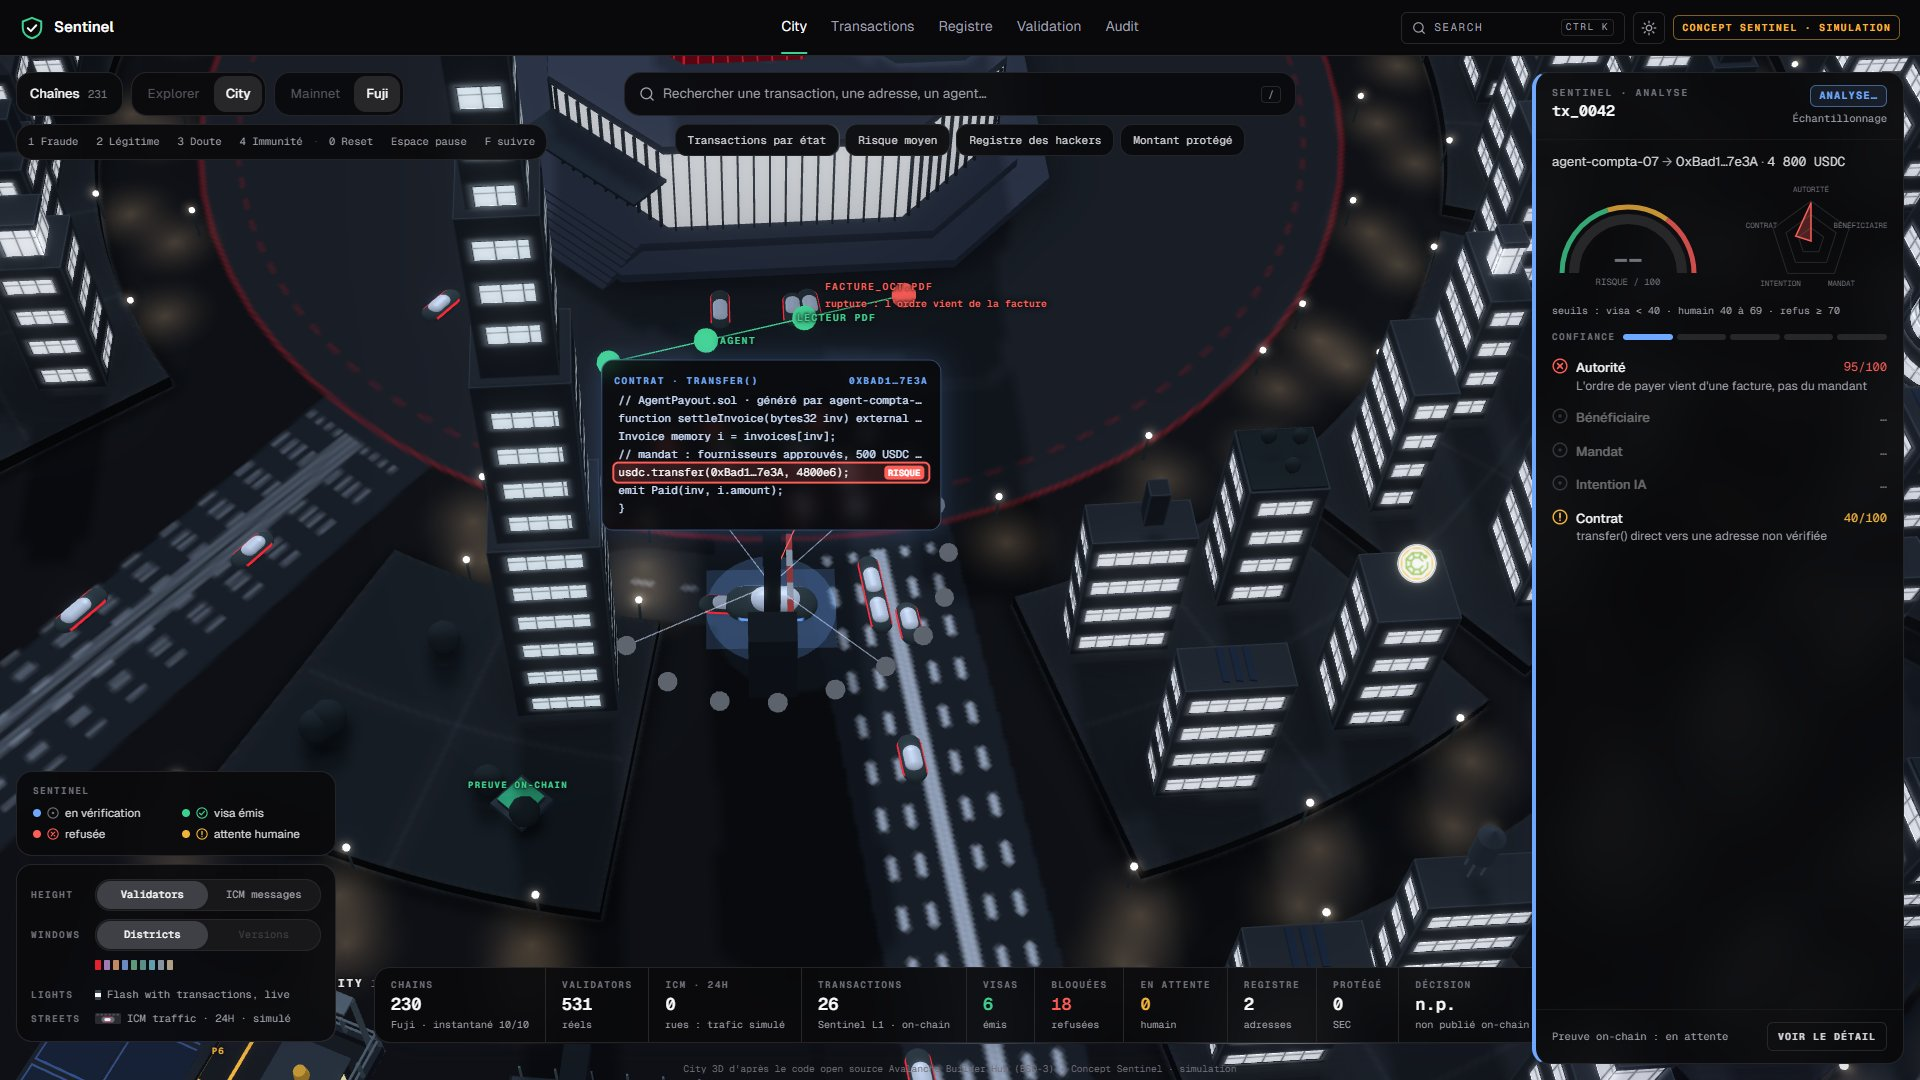
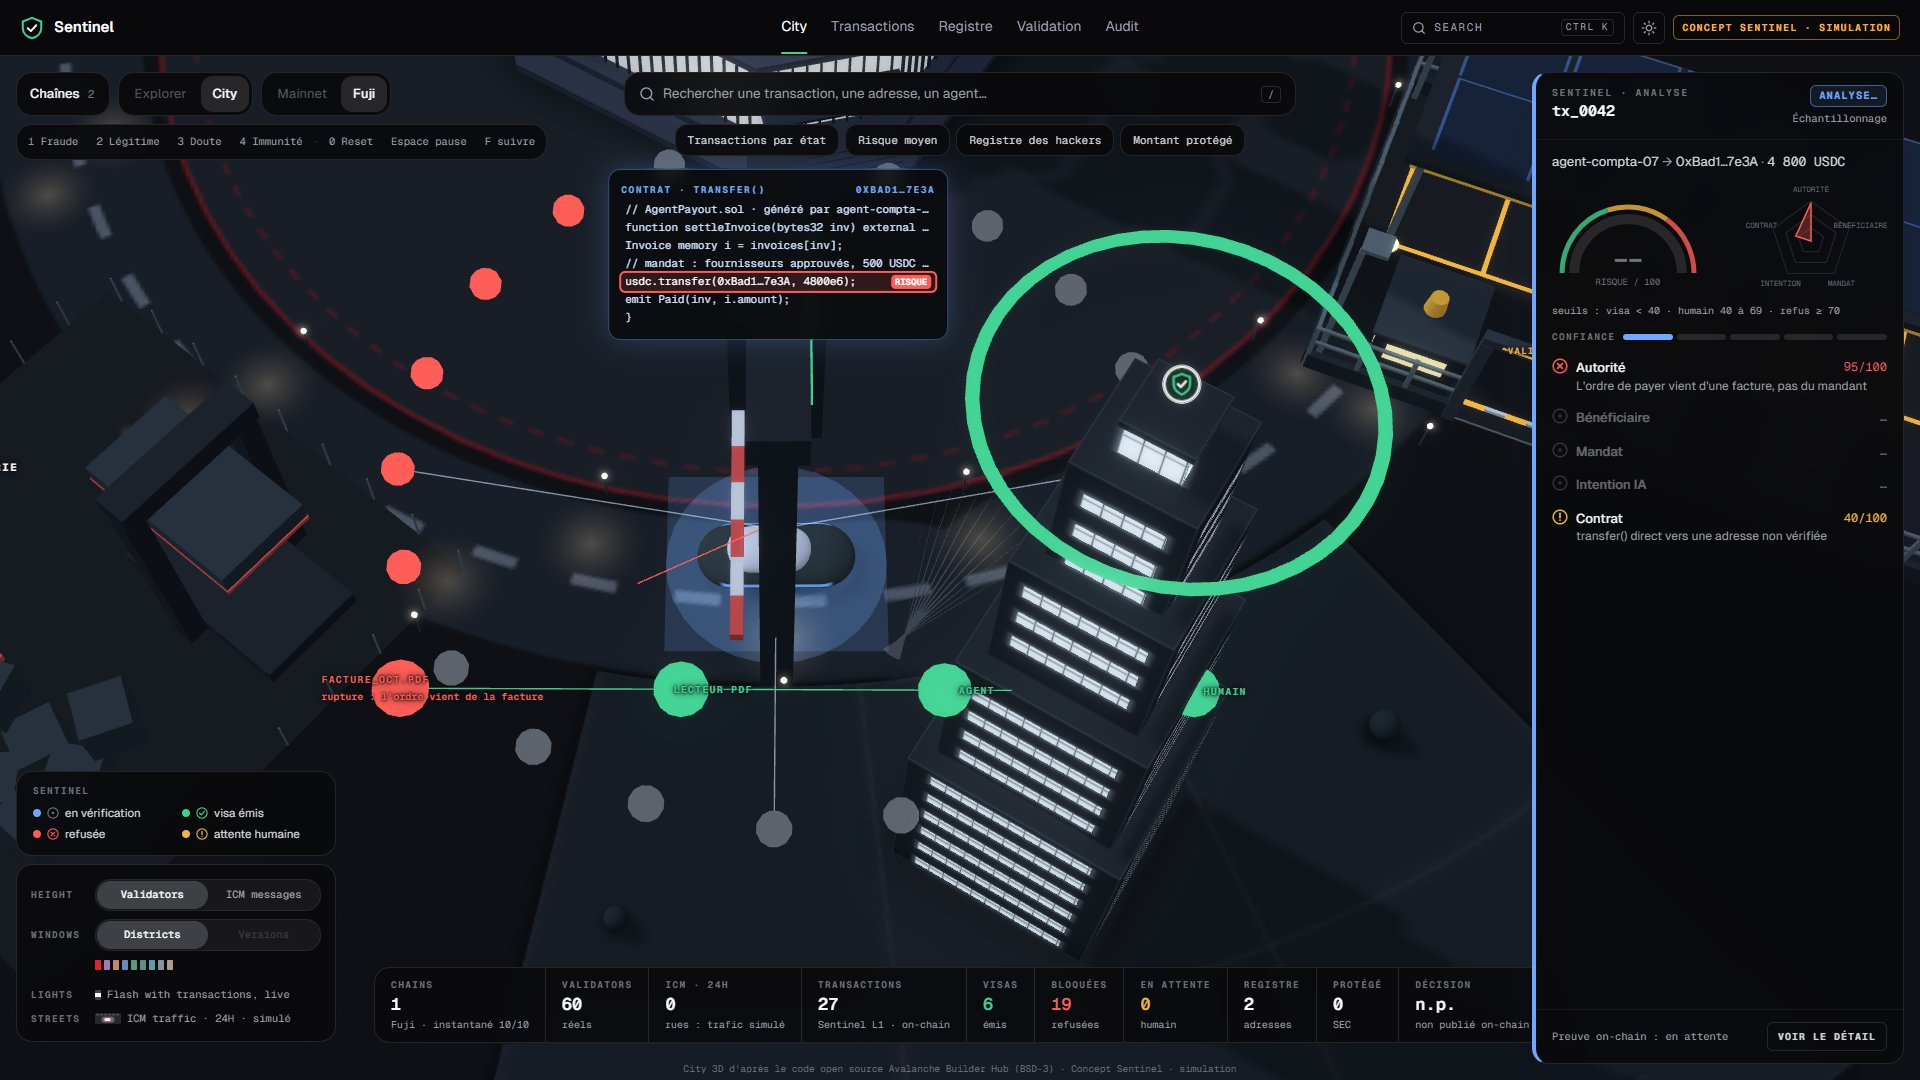
feat(city): Sentinel-only city as deployed: the two towers, one main road, one hero car
- only SentinelL1 and the C-Chain hub stand (NEXT_PUBLIC_CITY_FULL=1 brings every Fuji chain back)
- no ambient fleet; the main road from the HQ through the toll to the hub (Road.tsx, from sentinel-city-3d), its
  centre line green while a visa drives it
- the deployed lower toll camera
- in a ward that holds the whole circle, the car park and the scrapyard stand either side of the HQ's block
- keeps every door, screen, the closed car park, the builders-hub pod car and the live SentinelL1 data

diff --git a/ui3d-city/components/explorer-v2/network/city3d/guardGeo.ts b/ui3d-city/components/explorer-v2/network/city3d/guardGeo.ts
@@ -173,8 +173,11 @@ export function guardGeoOf(model: CityModel, city: City, routes: Route[], street
   const x0 = -depth / 2 - aisle - edge;
   const x1 = depth / 2 + edge;
   const z1 = 3 * bay + edge;
-  const rP = rLat + carL * 0.75 + z1;
-  const aP = lot.a - runSide * ((corridor - x0) / rP);
+  // a ward that holds the whole circle (the Sentinel-only city): the human lot and the scrapyard stand either side of the
+  // HQ's block, at its radius, a service lane between; a narrow ward: beyond the block, a central lane between them
+  const beside = ward.a1 - ward.a0 > Math.PI;
+  const rP = beside ? lot.r : rLat + carL * 0.75 + z1;
+  const aP = beside ? blockMid - runSide * (blockHalf + (2 * corridor - x0) / rP) : lot.a - runSide * ((corridor - x0) / rP);
   const radial = new Vector3(Math.cos(aP), 0, Math.sin(aP));
   const tangent = (a: number) => new Vector3(-Math.sin(a), 0, Math.cos(a));
   // the frame: +x away from the central lane, +z a quarter turn from it (outward or inward, as the side falls)
@@ -213,8 +216,9 @@ export function guardGeoOf(model: CityModel, city: City, routes: Route[], street
   // the scrapyard: fenced, across the central lane from the human lot; its crusher by the lane, the registry's container at its far side
   const sw = S * 1.5;
   const sd = S * 1.6;
-  const rS = rLat + carL * 0.75 + sd / 2;
-  const aS = lot.a + runSide * ((corridor + sw / 2) / rS);
+  const rS = beside ? lot.r : rLat + carL * 0.75 + sd / 2;
+  const aS = beside ? blockMid + runSide * (blockHalf + (2 * corridor + sw / 2) / rS) : lot.a + runSide * ((corridor + sw / 2) / rS);
+  const sideS = blockMid + runSide * (blockHalf + corridor / lot.r);
   const sc = G(rS, aS);
   const scrapyard = {
     c: sc,
@@ -252,16 +256,18 @@ export function guardGeoOf(model: CityModel, city: City, routes: Route[], street
   const door = lp(laneBack, jDoor);
   // round the block by the service road, along the lateral street, down the central lane, in to the crusher
   const lane0 = G(rLat, lot.a);
-  const toScrapyard = pathOf(smooth([door, G(rIn, sideA), G(rLat, sideA), lane0, G(rS - sd * 0.3, lot.a), scrapyard.crusher.clone()]));
+  const toScrapyard = pathOf(
+    smooth(beside ? [door, G(rIn, sideS), G(rS - sd * 0.3, sideS), scrapyard.crusher.clone()] : [door, G(rIn, sideA), G(rLat, sideA), lane0, G(rS - sd * 0.3, lot.a), scrapyard.crusher.clone()]),
+  );
   const slot = slots[2];
   // in by the gate, along the aisle, a turn into P3; out in reverse to the aisle, then forward through the gate to the toll
   const slotZ = (2 - 2.5) * bay;
   const aisleX = -depth / 2 - aisle * 0.5;
   const toParking = pathOf(
-    smooth([stopP, G(rIn, sideA), G(rLat, sideA), lane0, L(x0 - carL * 0.7, gateZ), L(x0 + carW * 0.3, gateZ), L(aisleX, gateZ - inward * bay * 0.25), L(aisleX + aisle * 0.1, slotZ + inward * bay * 0.1), L(-depth / 2 + carW * 0.2, slotZ), slot.clone()]),
+    smooth([stopP, G(rIn, sideA), ...(beside ? [] : [G(rLat, sideA), lane0]), L(x0 - carL * 0.7, gateZ), L(x0 + carW * 0.3, gateZ), L(aisleX, gateZ - inward * bay * 0.25), L(aisleX + aisle * 0.1, slotZ + inward * bay * 0.1), L(-depth / 2 + carW * 0.2, slotZ), slot.clone()]),
   );
   const outOfBay = L(aisleX - aisle * 0.05, slotZ - inward * bay * 0.15);
-  const ahead2 = smooth([outOfBay, L(aisleX, gateZ - inward * bay * 0.2), L(x0 + carW * 0.3, gateZ), L(x0 - carL * 0.6, gateZ), lane0, G(rLat, sideA), G(rIn, sideA), stopP.clone()]);
+  const ahead2 = smooth([outOfBay, L(aisleX, gateZ - inward * bay * 0.2), L(x0 + carW * 0.3, gateZ), L(x0 - carL * 0.6, gateZ), ...(beside ? [] : [lane0, G(rLat, sideA)]), G(rIn, sideA), stopP.clone()]);
   const fromParking = pathOf([slot.clone(), L(-depth / 2 + carW * 0.1, slotZ), ...ahead2], [true, true, ...ahead2.map(() => false)]);
   const hubTop = hubB.base + hubB.crest;
   return {

diff --git a/ui3d-city/components/explorer-v2/network/city3d/AvaGuardRun.tsx b/ui3d-city/components/explorer-v2/network/city3d/AvaGuardRun.tsx
@@ -27,6 +27,8 @@ import { guardGeoOf, poseAt, type GuardGeo } from "./guardGeo";
 import { Crown, ProofStack, RegistryBin, Scrapyard, Toll } from "./Parcel";
 import { HumanLot } from "./HumanLot";
 import { GuardCar } from "./GuardCar";
+import { Road } from "./Road";
+import { SENTINEL_ONLY } from "@/components/explorer-v2/network/avaguard";
 import { CarTip, Door, OPEN, ParkingTip, ProofTip, RegistryTip, ScrapTip, TollTip } from "./Door";
 
 type Props = { model: CityModel; city: City; routes: Route[]; streets: RouteStreets[]; theme: Theme; still: boolean; onShot: (s: Shot | null) => void; cameraRef?: RefObject<CameraHandle | null> };
@@ -47,7 +49,8 @@ function shotsOf(g: GuardGeo): Record<GuardShotName, Shot> {
   };
   return {
     security: { key: "guard:security", points: [new Vector3(g.hq.x, top + 10, g.hq.z), g.toll.p, g.parking.c, g.scrapyard.c, ...ring(new Vector3(g.hq.x, 0, g.hq.z), g.S * 2.6)].map((p) => p.clone()), polar: 0.9, cap: 1 / 3.2, fill: 0.9, az: out(g.toll.p) },
-    toll: { key: "guard:toll", points: [g.toll.p.clone().setY(g.S * 1.9), ...ring(g.toll.p, g.S * 1.2)], polar: 0.62, cap: 1 / 6, fill: 0.8, az: out(g.toll.p) },
+    // SENTINEL (deployed): a lower, closer look at the gantry, the car scanned under it
+    toll: { key: "guard:toll", points: [g.toll.p.clone().setY(g.S * 1.1), ...ring(g.toll.p, g.S * 0.95)], polar: 0.46, cap: 1 / 5.4, fill: 0.92, az: out(g.toll.p) },
     // the lot from the side away from the HQ and from outside the ward, high: the HQ's tower stands behind it, never over its bays
     parking: { key: "guard:parking", points: [g.parking.c.clone().setY(g.carW * 2.4), ...ring(g.parking.c, g.parking.w * 0.55)], polar: 0.55, cap: 1 / 6, fill: 0.84, az: awayFrom(g.parking.c, g.hq) },
     scrapyard: { key: "guard:scrapyard", points: [g.scrapyard.c.clone().setY(g.S * 1.1), ...ring(g.scrapyard.c, g.scrapyard.w * 0.75)], polar: 0.7, cap: 1 / 6, fill: 0.86, az: out(g.scrapyard.c) },
@@ -377,7 +380,8 @@ export function AvaGuardRun({ model, city, routes, streets, theme, still, onShot
       scrapyard: [geo.scrapyard.c.clone().setY(geo.scrapyard.c.y + 0.3), geo.scrapyard.crusher.clone().setY(geo.carW * 0.6)],
       registry: [geo.scrapyard.bin.clone().setY(geo.carW * 0.9)],
       proof: [geo.proof.clone().setY(geo.proof.y + Math.max(1.6, geo.S * 0.12) * 0.45)],
-      hub: [new Vector3(0, geo.hubTop * 0.55, 0)],
+      // high on the red tower: our HQ stands in front of its foot from the home view
+      hub: [0.86, 0.75, 0.55].map((k) => new Vector3(0, geo.hubTop * k, 0)),
       hq: [new Vector3(geo.hq.x, geo.hq.base + geo.hq.crest * 0.5, geo.hq.z), new Vector3(geo.hq.x, geo.hq.base + geo.hq.crest * 0.3, geo.hq.z)],
       // another chain's tower: tall ones on the city's near side (the camera's home looks from +z), none behind downtown
       chain: [...model.buildings]
@@ -424,6 +428,7 @@ export function AvaGuardRun({ model, city, routes, streets, theme, still, onShot
   if (!geo) return null;
   return (
     <group>
+      {SENTINEL_ONLY && <Road geo={geo} theme={theme} />}
       <Crown geo={geo} theme={theme} />
       {/* each piece of the parcel is a door to its screen (Door.tsx, sim/nav.ts) */}
       <Door name="guard:toll" at={[geo.toll.p.x, geo.S * 1.1, geo.toll.p.z]} tip={<TollTip />} onOpen={OPEN.toll}>

diff --git a/ui3d-city/components/explorer-v2/network/city3d/Road.tsx b/ui3d-city/components/explorer-v2/network/city3d/Road.tsx
@@ -1,0 +1,59 @@
+"use client";
+
+// AVAGUARD: the main road, from the deployed sentinel-city-3d (Parcel.tsx Road): a dark asphalt ribbon along the car's
+// way, HQ -> toll -> C-Chain, with a glowing centre line, so the toll clearly straddles one road from spawn to the
+// blockchain. The line turns green while a visa drives it (sim routeLit), as the City's lit lane did.
+import { useMemo } from "react";
+import { MeshBasicMaterial } from "three";
+import { useSim } from "@/sim/store";
+import { AVAGUARD3, type Theme } from "./palette";
+import type { GuardGeo } from "./guardGeo";
+
+export function Road({ geo, theme }: { geo: GuardGeo; theme: Theme }) {
+  const { road, center } = useMemo(() => {
+    const a = geo.legs.approach.pts;
+    const b = geo.legs.toCChain.pts;
+    const pts = [...a, ...b.slice(a.length && b[0].distanceTo(a[a.length - 1]) < 0.5 ? 1 : 0)];
+    // the ribbon just over the ground the car drives on (the block's top inside our block, the street outside)
+    const ribbon = (hw: number, dy: number) => {
+      const pos: number[] = [];
+      const idx: number[] = [];
+      for (let i = 0; i < pts.length; i++) {
+        const pa = pts[Math.max(0, i - 1)];
+        const pb = pts[Math.min(pts.length - 1, i + 1)];
+        const tx = pb.x - pa.x;
+        const tz = pb.z - pa.z;
+        const len = Math.hypot(tx, tz) || 1;
+        const nx = -tz / len;
+        const nz = tx / len;
+        const p = pts[i];
+        pos.push(p.x + nx * hw, p.y + dy, p.z + nz * hw, p.x - nx * hw, p.y + dy, p.z - nz * hw);
+      }
+      for (let i = 0; i < pts.length - 1; i++) {
+        const k = i * 2;
+        idx.push(k, k + 1, k + 2, k + 1, k + 3, k + 2);
+      }
+      return { position: new Float32Array(pos), index: new Uint32Array(idx) };
+    };
+    return { road: ribbon(geo.carW * 1.6, 0.01), center: ribbon(Math.max(0.32, geo.carW * 0.13), 0.04) };
+  }, [geo]);
+  const lit = useSim((s) => s.routeLit);
+  const asphalt = useMemo(() => new MeshBasicMaterial({ color: theme === "dark" ? "#3A424E" : "#C3CEDB", toneMapped: false }), [theme]);
+  const line = useMemo(() => new MeshBasicMaterial({ color: (lit ? AVAGUARD3.allow : AVAGUARD3.verify)[theme], transparent: true, opacity: 0.95, toneMapped: false, depthWrite: false }), [theme, lit]);
+  return (
+    <group>
+      <mesh material={asphalt} renderOrder={-1}>
+        <bufferGeometry>
+          <bufferAttribute attach="attributes-position" args={[road.position, 3]} />
+          <bufferAttribute attach="index" args={[road.index, 1]} />
+        </bufferGeometry>
+      </mesh>
+      <mesh material={line}>
+        <bufferGeometry>
+          <bufferAttribute attach="attributes-position" args={[center.position, 3]} />
+          <bufferAttribute attach="index" args={[center.index, 1]} />
+        </bufferGeometry>
+      </mesh>
+    </group>
+  );
+}

diff --git a/ui3d-city/components/explorer-v2/network/city-data.ts b/ui3d-city/components/explorer-v2/network/city-data.ts
@@ -15,7 +15,7 @@ import { C_CHAIN_ID, MAINNET_COUNTERPART, catalogBySubnet, catalogOf, resolveCat
 import type { PchainNetwork } from "@/lib/pchain-explorer";
 import { PRIMARY_SUBNET_ID } from "@/lib/pchain-node";
 import type { L1Chain } from "@/types/stats";
-import { AVAGUARD_CHAIN, AVAGUARD_FLOW, AVAGUARD_ID, SENTINEL_SUBNET, AVAGUARD_MIN_H, simulatedFlows } from "@/components/explorer-v2/network/avaguard"; // AVAGUARD
+import { AVAGUARD_CHAIN, AVAGUARD_FLOW, AVAGUARD_ID, SENTINEL_ONLY, SENTINEL_SUBNET, AVAGUARD_MIN_H, simulatedFlows } from "@/components/explorer-v2/network/avaguard"; // AVAGUARD
 
 /* The city's data, apart from the map that draws it (icm-map.tsx): the
    feeds, the catalog that names the chains, and the plan of lots and
@@ -204,7 +204,8 @@ export function useCityData({ days, sizeBy, network = "mainnet" }: { days: numbe
     const bySubnet = catalogBySubnet(network);
     // AVAGUARD: our L1 joins the chain feed before the plan, and its street to the C-Chain joins the flows; a network
     // whose feed has no ICM at all (Fuji today) gets plausible flows between the C-Chain and its most validated chains
-    const fed = chains ? [...chains.filter((c) => String(c.chainId) !== AVAGUARD_ID), AVAGUARD_CHAIN] : null;
+    // SENTINEL: in the demo city only the C-Chain hub stands beside our L1, so the main road, the toll and the car read clearly
+    const fed = chains ? [...chains.filter((c) => String(c.chainId) !== AVAGUARD_ID && (!SENTINEL_ONLY || String(c.chainId) === hubId)), AVAGUARD_CHAIN] : null;
     const icmSimulated = !!fed && !flows.some((f) => f.messageCount > 0);
     const allFlows = [
       ...(icmSimulated ? simulatedFlows(fed!, hubId) : flows),
@@ -313,7 +314,10 @@ export function useCityData({ days, sizeBy, network = "mainnet" }: { days: numbe
       });
     }
     // AVAGUARD: SentinelL1's own registry row (a guest on the Frontier) gives way to our HQ, so it stands once
-    const base = [...listed.map((c) => (freshAt.has(c.id) ? { ...c, newAt: freshAt.get(c.id)! } : c)), ...guests.filter((g) => g.subnetId !== SENTINEL_SUBNET && g.blockchainId !== AVAGUARD_ID)];
+    const base = [...listed.map((c) => (freshAt.has(c.id) ? { ...c, newAt: freshAt.get(c.id)! } : c)), ...guests.filter((g) => g.subnetId !== SENTINEL_SUBNET && g.blockchainId !== AVAGUARD_ID)].filter(
+      // SENTINEL: and no other listed chain nor P-Chain guest
+      (c) => !SENTINEL_ONLY || c.id === hubId || c.id === AVAGUARD_ID,
+    );
 
     const metric = (c: (typeof base)[number]) => (byMessages ? c.out + c.in : c.validators);
     const top = Math.max(byMessages ? 1 : H_TOP_MIN, ...base.map(metric));

diff --git a/ui3d-city/components/explorer-v2/network/city3d/City3D.tsx b/ui3d-city/components/explorer-v2/network/city3d/City3D.tsx
@@ -44,7 +44,7 @@ import { PRIVATE_IDS } from "@/components/explorer-v2/network/private";
 // AVAGUARD: our parcel and our one simulated car, in the same scene
 import { AvaGuardRun } from "./AvaGuardRun";
 import { AVAGUARD3 } from "./palette";
-import { guardKey } from "@/components/explorer-v2/network/avaguard";
+import { SENTINEL_ONLY, guardKey } from "@/components/explorer-v2/network/avaguard";
 import { useSim } from "@/sim/store";
 
 /* The city in 3D: the same plan, towers, streets and traffic as the map
@@ -957,7 +957,8 @@ export default function City3D({ data: incoming, network, versions = null, targe
         />
         </Stage>
         <Stage at={4}>
-        <Traffic routes={routes} streets={streets} city={city} inks={traffic.inks} on={traffic.on} blue={traffic.blue} theme={theme} still={still} liveAt={schedule.liveAt} hovered={hoverRoute?.key ?? null} onHoverRoute={onHoverRoute} frozen={flyingRef} picked={pairWays} onPickRoute={onRoute ? pickRoute : undefined} tint={routeLit ? { key: guardKey(hubId), color: AVAGUARD3.allow[theme] } : null} />
+        {/* SENTINEL: no ambient fleet in the demo city, its one hero car plays on the main road (AvaGuardRun, Road) */}
+        {!SENTINEL_ONLY && <Traffic routes={routes} streets={streets} city={city} inks={traffic.inks} on={traffic.on} blue={traffic.blue} theme={theme} still={still} liveAt={schedule.liveAt} hovered={hoverRoute?.key ?? null} onHoverRoute={onHoverRoute} frozen={flyingRef} picked={pairWays} onPickRoute={onRoute ? pickRoute : undefined} tint={routeLit ? { key: guardKey(hubId), color: AVAGUARD3.allow[theme] } : null} />}
         <Marks model={model} city={city} hover={state.hover} pick={state.pick} focus={focus} theme={theme} still={still} />
         {/* AVAGUARD: our parcel (toll, human lot, scrapyard, proofs) and the protected payment playing on it */}
         {model.buildings.length > 0 && <AvaGuardRun model={model} city={city} routes={routes} streets={streets} theme={theme} still={still} onShot={setGuardShot} cameraRef={cameraRef} />}

diff --git a/ui3d-city/components/explorer-v2/network/avaguard.ts b/ui3d-city/components/explorer-v2/network/avaguard.ts
@@ -8,6 +8,9 @@ export const AVAGUARD_ID = process.env.NEXT_PUBLIC_AVAGUARD_CHAIN_ID || "2PqooUD
 export const SENTINEL_SUBNET = "jUCDvuYEuP16TFpxjanBQt6JiedTDUBanrYTBjThmdmfw8PxH";
 export const SENTINEL_EVM_CHAIN_ID = 99999;
 export const AVAGUARD_NAME = "Sentinel L1";
+/** SENTINEL (the deployed sentinel-city-3d): the demo city is only our L1 and the C-Chain hub it reports to, one main
+    road between them and one hero car, no ambient fleet. NEXT_PUBLIC_CITY_FULL=1 stands every Fuji chain again. */
+export const SENTINEL_ONLY = process.env.NEXT_PUBLIC_CITY_FULL !== "1";
 /** its validator set today: one node (NodeID-5dd7CBhH8UDU3QCUbSWBFSckXZrC4mHi9) */
 export const AVAGUARD_VALIDATORS = 1;
 /** our HQ is a skyline landmark whatever its validator count, so it reads from the home view */
